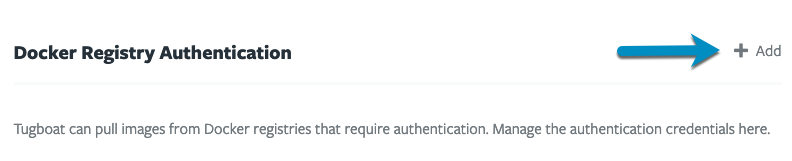
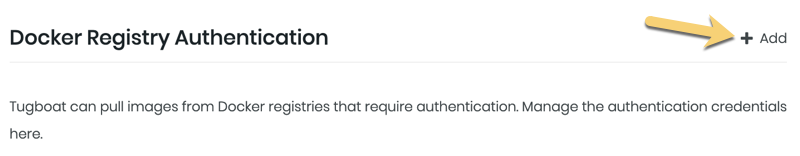
Add Preview IP filtering, update screenshots on page, add visual walkthrough

diff --git a/content/setting-up-tugboat/select-repo-settings.md b/content/setting-up-tugboat/select-repo-settings.md
@@ -1,6 +1,7 @@
 ---
 title: "Select Repo Settings"
 date: 2019-09-17T11:42:15-04:00
+lastmod: 2020-06-29T10:00:00-04:00
 weight: 4
 ---
 
@@ -125,6 +126,12 @@ credentials from within the repo settings.
 
 ![Authenticate with a Docker registry](../../_images/authenticate-with-a-docker-registry-add-credentials.png)
 
+### Preview IP Filters
+
+Want to restrict access to a Preview URL to only allow a specified set of IP addresses or subnets to view a Tugboat
+Preview? Press the {{% ui-text %}}+ Add{{% ui-text %}} button to specify IPv4 or IPv6 addresses or subnets that should
+be allowed to access Previews built from this repository.
+
 ### Delete the Repository
 
 If you want to delete a repo from your Tugboat project, you'll go into the Repository Settings for that repo and press
@@ -148,3 +155,25 @@ Any time you need to make a change to Repository Settings:
 
 From here, you'll see all the Repository Settings you can modify. If you make changes to the settings, don't forget to
 press the {{% ui-text %}}Save Configuration{{% /ui-text %}} button!
+
+{{%expand "Visual Walkthrough" %}}
+
+Go to username -> [My Projects](https://dashboard.tugboat.qa/projects) at the upper-right of the Tugboat screen.
+
+![My Projects](../../_images/go-to-user-my-projects.png)
+
+Select the project where you want to edit repository settings.
+
+![Select the project](../../_images/select-a-project.png)
+
+Scroll to the linked repository whose settings you want to change, and click the {{% ui-text %}}Settings{{% /ui-text %}}
+link.
+
+![Click the Repository Settings link](../../_images/go-to-repository-settings.png)
+
+From here, you'll see all the Repository Settings you can modify. If you make changes to the settings, don't forget to
+press the {{% ui-text %}}Save Configuration{{% /ui-text %}} button!
+
+![Press the Save Configuration button](../../_images/repository-settings-press-save-configuration.png)
+
+{{% /expand%}}
